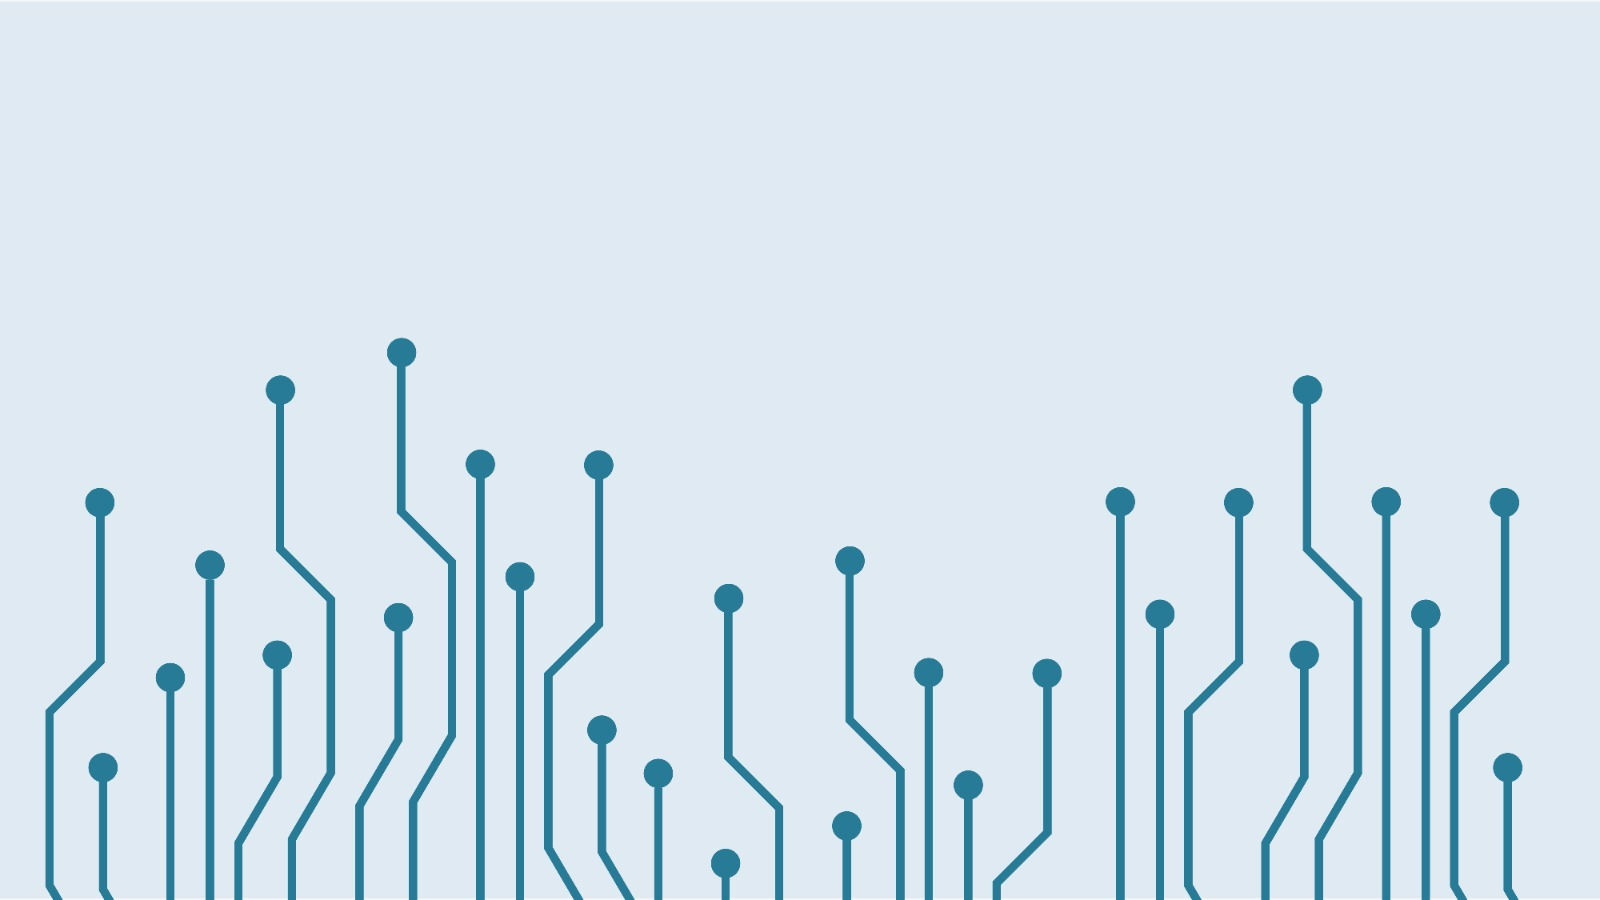
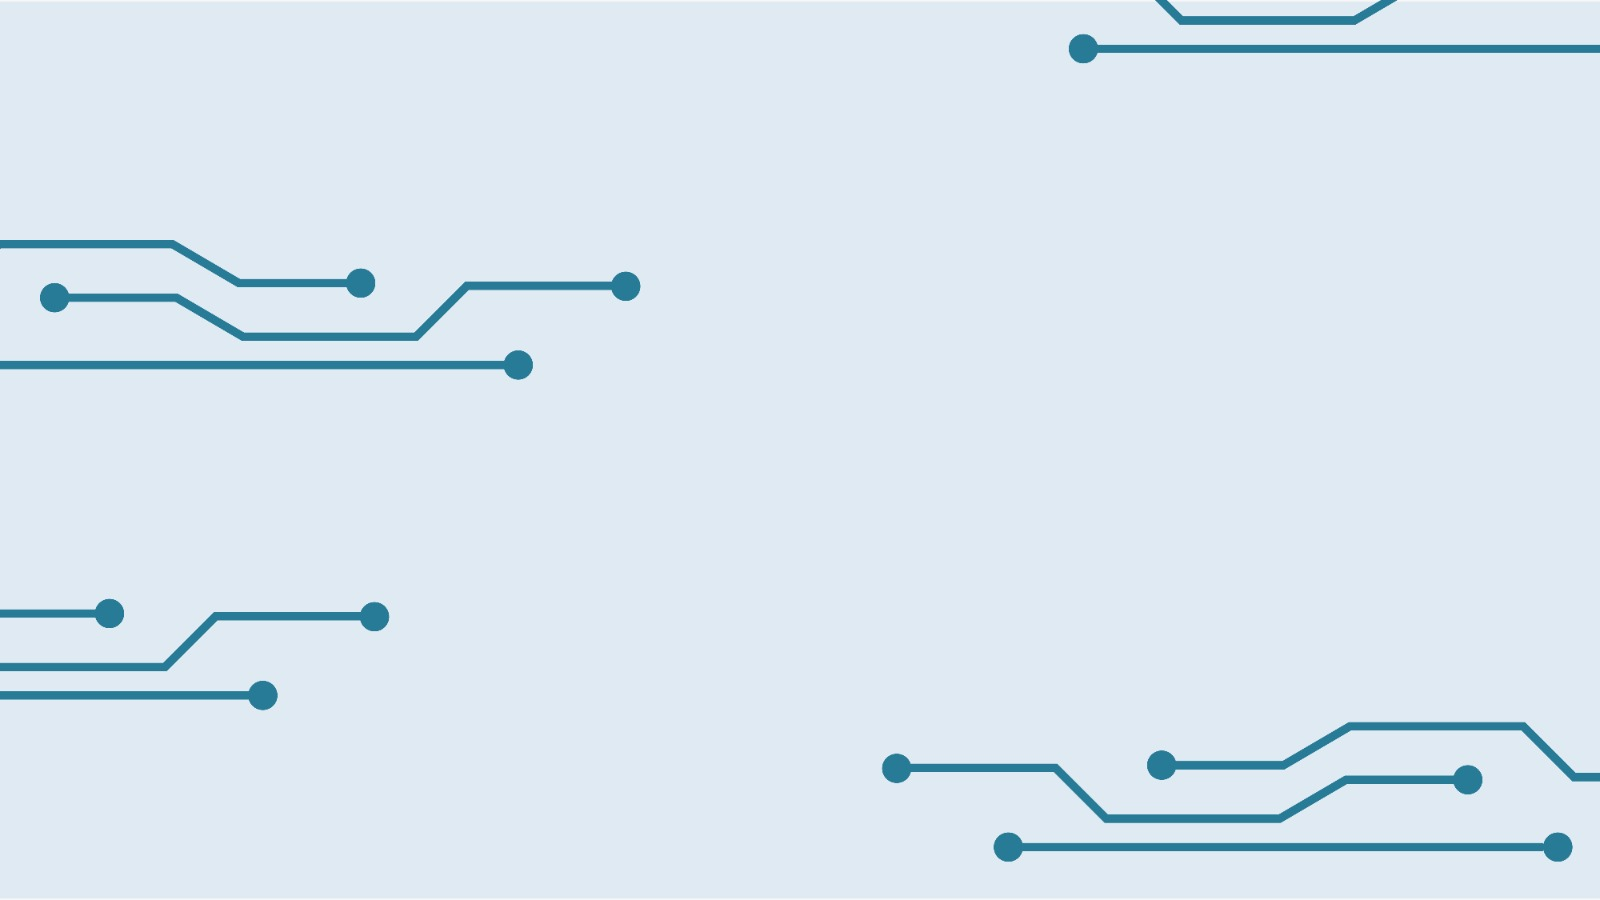
copied the to make the sign up page

diff --git a/signup.css b/signup.css
@@ -1,0 +1,127 @@
+body,
+html {
+  margin: 0;
+  padding: 0;
+  height: 100%;
+  width: 100%;
+  overflow: hidden;
+  font-family: "roboto";
+  background-image: url("./images/background1.jpeg");
+}
+
+.logo {
+    position: absolute;
+    top: 0; /* Adjust to position your logo */
+    left: 0; /* Adjust to position your logo */
+    width: 100px; /* Set your desired width */
+    height: 100px; /* Set your desired height */
+    z-index: 1; /* Make sure it is above other content */
+  }
+
+  .logo-container {
+    position: absolute;
+    top: -5em; /* Adjust to position your logo */
+    left: -8.5em; /* Adjust to position your logo */
+    width: 30em; /* Set your desired width */
+    height: 30em; /* Set your desired height */
+    background-image: url('./images/zo-04.png');
+    background-size: contain; /* Or 'cover' depending on the effect you want */
+    background-repeat: no-repeat;
+    z-index: 0; /* Ensures it's above the background */
+  }
+
+  .flex-container {
+    display: flex;
+    justify-content: center;
+    align-items: center;
+    height: 100vh;
+  }
+  
+  .container {
+    display: flex;
+    flex-direction: column;
+    justify-content: space-evenly;
+    align-items: center;
+    color: black;
+    background: rgba(255, 255, 255, 0.473);
+    border-radius: 5%;
+    padding: 60px 40px;
+    text-align: center;
+    backdrop-filter: blur(7px);
+    border: 1px solid rgba(255, 255, 255, 0.378);
+    box-shadow: 0 0 30px rgba(8, 7, 16, 0.6);
+    letter-spacing: 0.3px;
+    width: auto;
+    height: auto;
+    max-width: 400px;
+    margin: auto;
+    min-width: 300px;
+    min-height: 350px;
+  }
+
+  .text-inputs {
+    width: 80%;
+    height: 25px;
+    margin-bottom: 10%;
+    border: none;
+    border-bottom: 2px solid #287b97;
+    outline: none;
+    background: transparent;
+    color: black;
+  }
+
+  .text-inputs::placeholder {
+    color: #287b97;
+    font-weight: 500;
+    font-family: "roboto";
+  }
+
+  .inputs {
+    color: #287b97;
+    margin: 0.3125em;
+    background-color: white;
+    border: 2px solid #287b97;
+    outline: none;
+    font-weight: bolder;
+    width: 70%;
+    padding: 10px;
+    border-radius: 10px;
+  }
+  
+  .inputs:hover {
+    cursor: pointer;
+  }
+  
+  button:hover {
+    cursor: pointer;
+  }
+
+  .excluded {
+    text-align: left;
+  }
+
+  .inputs,
+.forgor,
+.text-inputs {
+  width: 80%;
+}
+
+p {
+    
+    color: #287b97;
+  }
+
+  .account-section {
+    display: flex;
+    flex-direction: column;
+    align-items: center;
+    justify-content: center;
+    width: 100%;
+    margin-top: 1rem;
+  }
+
+  #login-form {
+    display: flex;
+    flex-direction: column;
+    width: 100%;
+  }

diff --git a/signup.html b/signup.html
@@ -1,0 +1,67 @@
+<!DOCTYPE html>
+<html lang="en">
+<head>
+    <meta charset="UTF-8">
+    <meta name="viewport" content="width=device-width, initial-scale=1.0">
+    <title>Sign Up</title>
+    <link rel="stylesheet" href="signup.css">
+    <link
+    href="https://fonts.googleapis.com/css2?family=Roboto:ital,wght@0,100;0,300;0,400;0,500;0,700;0,900;1,100;1,300;1,400;1,500;1,700;1,900&display=swap"
+    rel="stylesheet"
+  />
+</head>
+<body>
+    <div class="logo-container">
+        <img class=""logo src="./images/zo-04.png" />
+      </div>
+
+
+      <div class="flex-container">
+        <div class="container">
+          <form action="" id="login-form">
+            <div class="input-wrapper">
+            <label for="username">
+                <p class="excluded">Your Username</p>
+              <input
+                type="text"
+                class="text-inputs"
+                name="user-name"
+                id="un1"
+                placeholder="Username"
+                style="margin-bottom: 20%"
+                required
+              />
+              <br />
+            </label>
+            <p class="excluded">Your Password</p>
+            <label for="password">
+              <input
+                type="password"
+                class="text-inputs"
+                name="pass-word"
+                id="ps1"
+                placeholder="Password"
+                required
+              />
+
+              <label for="email">
+                <p class="excluded">Your Email</p>
+              <input
+                type="email"
+                class="text-inputs"
+                name="Email"
+                id="em1"
+                placeholder="eg: dietmilk@gmail.com"
+                required
+              />
+              
+            </div>
+              <br />
+            </label>
+            
+            <div class="account-section">
+              
+              <button class="inputs" type="button" onclick=" location.href=''">Sign Up</button>
+            </div>
+</body>
+</html>

diff --git a/styles.css b/styles.css
@@ -6,7 +6,7 @@ html {
   width: 100%;
   overflow: hidden;
   font-family: "roboto";
-  background-image: url("./images/bacground2.jpeg");
+  background-image: url("./images/background2.jpeg");
 }
 
 #app {
